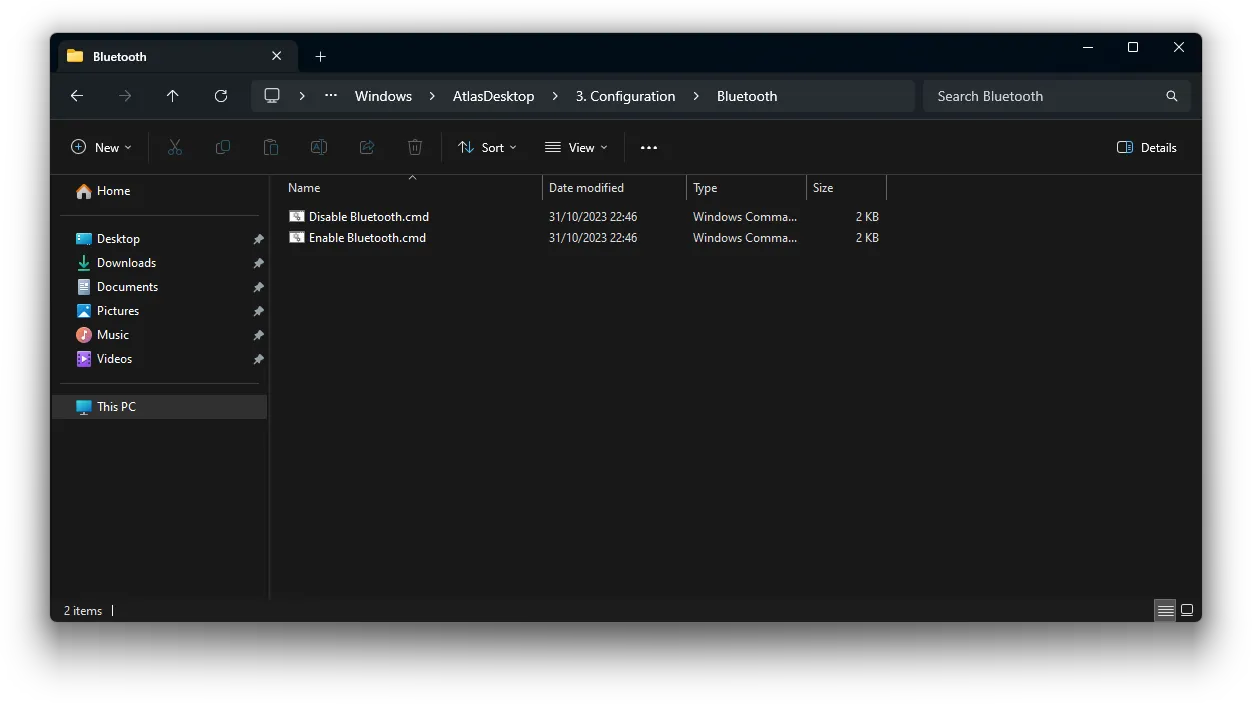
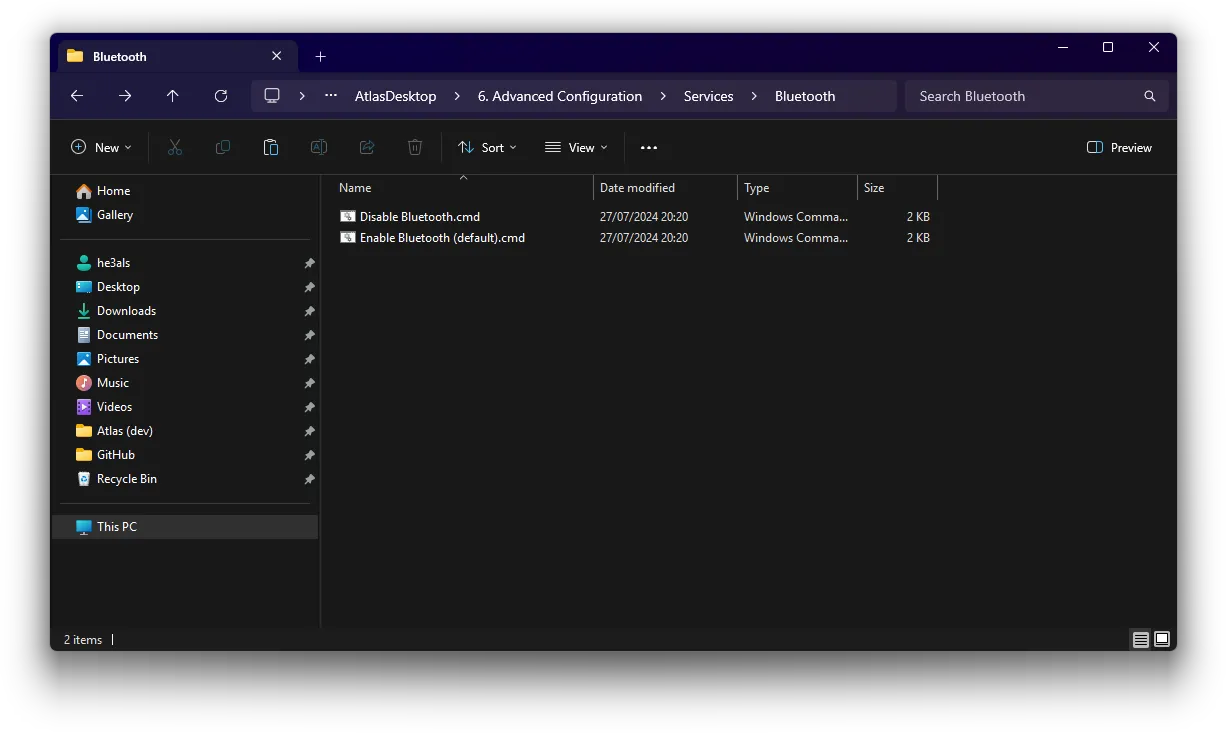
fix(v0.4.1): bluetooth, printers

diff --git a/docs/general-faq/bluetooth-compatibility.md b/docs/general-faq/bluetooth-compatibility.md
@@ -5,15 +5,13 @@ icon: material/bluetooth
 
 # :material-bluetooth: Does Bluetooth work on AtlasOS?
 
-**Yes, Bluetooth is fully functional on AtlasOS. You can choose to enable or disable it during the installation process.**
+**Yes, Bluetooth is fully functional on AtlasOS.**
 
-If you're using AtlasOS and have not enabled Automatic Driver Installation, you will need to install the Bluetooth driver manually.
+If you're using AtlasOS and have not enabled [Automatic Driver Installation](../getting-started/post-installation/drivers/getting-started.md#want-driver-installation-updates-through-windows-update-instead), you will need to install the Bluetooth driver manually. Follow these steps to set up Bluetooth:
 
-Follow these steps to set up Bluetooth:
+1. If you've disabled Bluetooth, [enable Bluetooth services](../getting-started/post-installation/atlas-folder/advanced-configuration.md#services) in the Atlas folder.
 
-1. Enable Bluetooth in the Atlas folder.
-
-2. Install your Bluetooth driver. You can get this from your device's OEM or follow our [SDIO guide](../getting-started/post-installation/drivers/others.md#snappy-driver-installer-origin).
+2. Install your Bluetooth driver. You can follow our [drivers guide](../getting-started/post-installation/drivers/others.md) for this.
     - Most issues with Bluetooth are caused by installing improper drivers. Make sure to research and find the driver that is suited for your device.
 
 3. Turn on Bluetooth and pair your device.

diff --git a/docs/getting-started/post-installation/atlas-folder/advanced-configuration.md b/docs/getting-started/post-installation/atlas-folder/advanced-configuration.md
@@ -62,6 +62,9 @@ These scripts allow you to toggle the 'NVIDIA Display Container LS' service, as 
 
 ### Printing
 
+!!! warning "Acrobat Support"
+    Disabling printing services is known to break installing Adobe Acrobat.
+
 These scripts toggle printing support. Remember that you'll likely need to install drivers for printing to work.
 
 ### Superfetch
